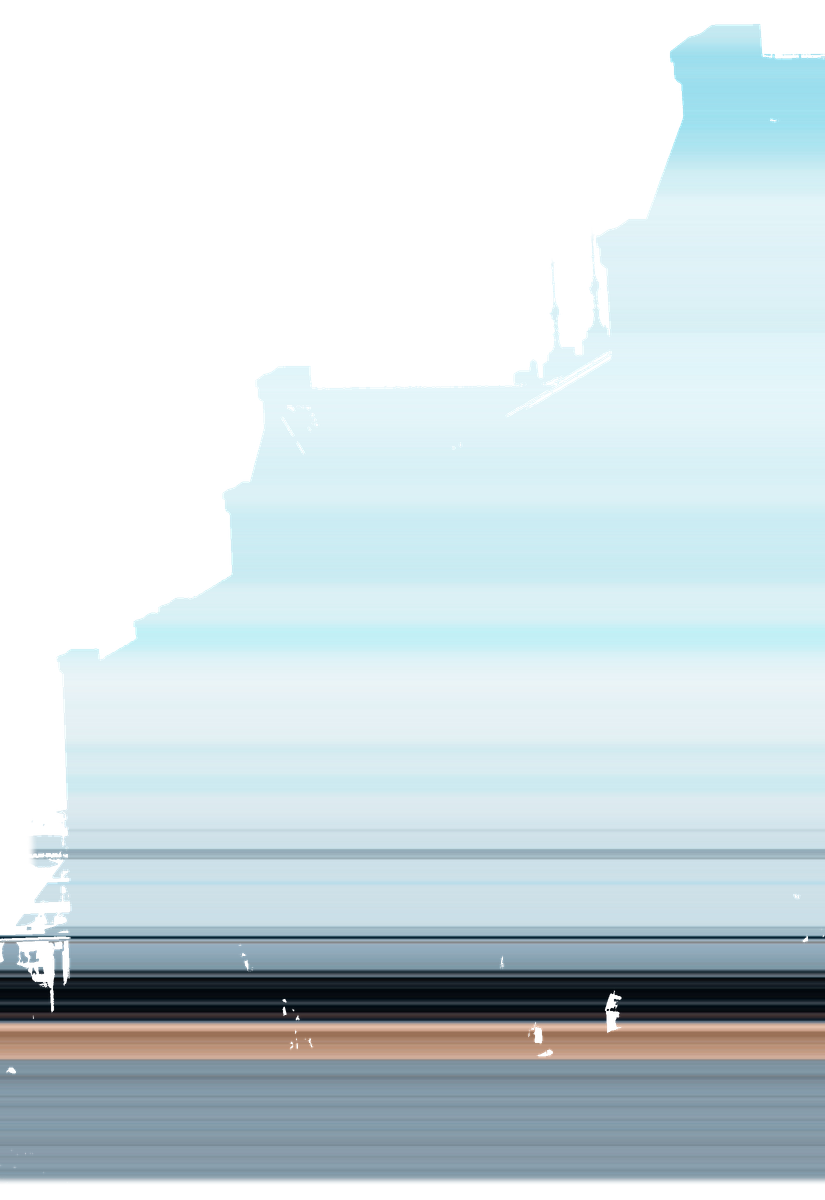
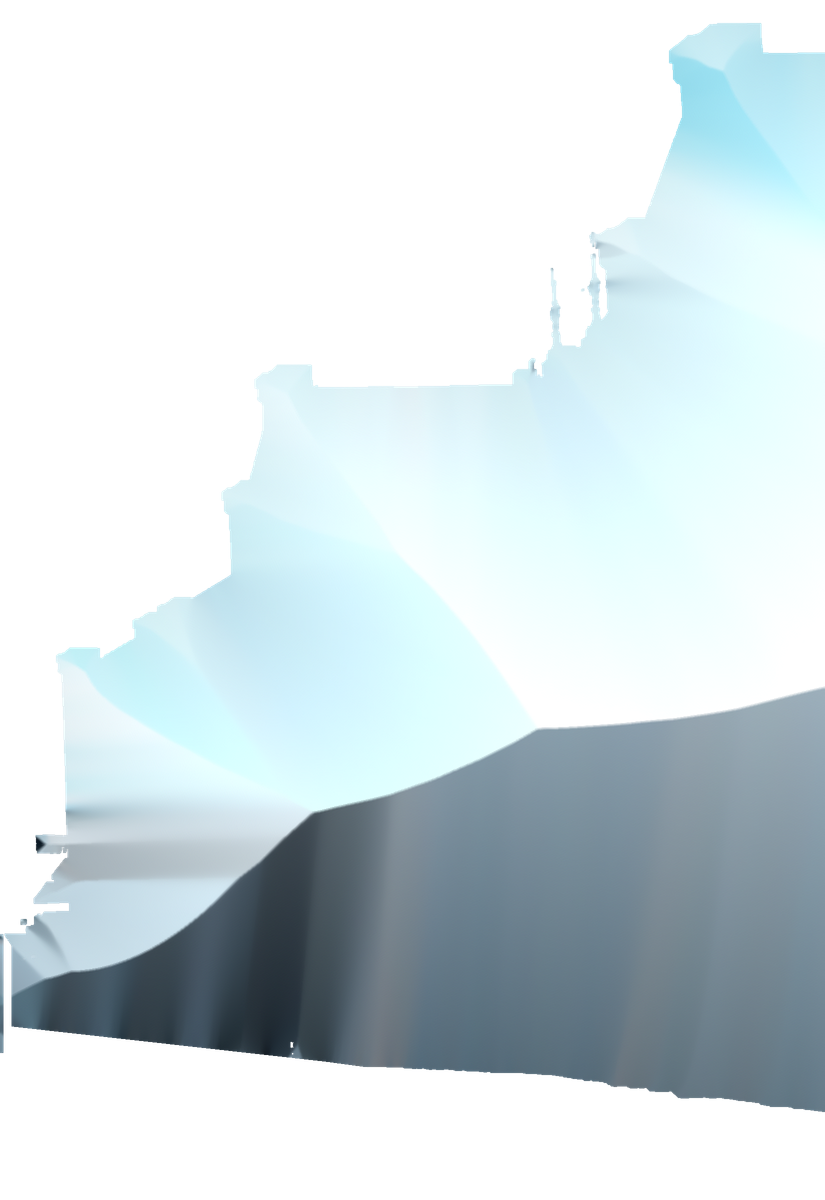
fix: refine photo masks and group scene into four layers

diff --git a/scripts/prepare-photo-background.py b/scripts/prepare-photo-background.py
@@ -1,0 +1,37 @@
+"""Rebuild the hidden fill from approved masks; no generative model or RGB edits to subjects.
+Optional authoring dependency: opencv-python-headless, numpy, Pillow.
+Run from the repository root, then run scripts/create-photo-layers.mjs.
+"""
+import json
+from pathlib import Path
+import cv2
+import numpy as np
+from PIL import Image
+
+root = Path(__file__).resolve().parents[1]
+layout = json.loads((root / 'assets/photo-layer-layout.json').read_text())
+original = np.array(Image.open(root / 'public/images/FP002119.JPG').convert('RGB'))
+missing = np.zeros(original.shape[:2], np.uint8)
+crowd_missing = np.zeros_like(missing)
+for part in layout['parts']:
+    alpha = np.array(Image.open(root / f"assets/photo-{part['name']}-mask.png").convert('L'))
+    if alpha.shape != (part['height'], part['width']):
+        raise ValueError('Unexpected mask size')
+    region = missing[part['y']:part['y'] + part['height'], part['x']:part['x'] + part['width']]
+    np.maximum(region, alpha, out=region)
+    if part['name'] == 'crowds':
+        crowd_missing[part['y']:part['y'] + part['height'], part['x']:part['x'] + part['width']] = alpha
+# Only this concealed fill is generated at half resolution. Foreground RGB comes
+# directly from the original; the normal static/zoom photo remains untouched.
+small = cv2.resize(original, (3000, 1688), interpolation=cv2.INTER_AREA)
+mask = cv2.resize(missing, (3000, 1688), interpolation=cv2.INTER_AREA)
+mask = cv2.dilate((mask > 4).astype(np.uint8) * 255, np.ones((5, 5), np.uint8))
+fill = cv2.inpaint(small, mask, 3, cv2.INPAINT_TELEA)
+Image.fromarray(fill).save(root / 'assets/photo-background-fill.webp', lossless=True, method=6)
+# Architecture keeps its surface behind people; use a separate plate that
+# removes pedestrians without removing the walls behind them.
+crowd_mask = cv2.resize(crowd_missing, (3000, 1688), interpolation=cv2.INTER_AREA)
+crowd_mask = cv2.dilate((crowd_mask > 4).astype(np.uint8) * 255, np.ones((5, 5), np.uint8))
+walls = cv2.inpaint(small, crowd_mask, 3, cv2.INPAINT_TELEA)
+Image.fromarray(walls).save(root / 'assets/photo-buildings-fill.webp', lossless=True, method=6)
+print('Prepared non-generative hidden fill from adjacent photo pixels.', flush=True)

diff --git a/README.md b/README.md
@@ -66,32 +66,39 @@ npm run build
 
 ## マウスに追従するレイヤー
 
-マウス操作できる端末では、空と遠景・左の倉庫・右の倉庫・地面・人物の5層が、控えめにマウスへ追従します。
-人物と地面は同じ移動量にして足元を保ち、縦方向は全層を一緒に動かして境界のずれを抑えます。
-揺り戻しのない補間を使い、画像読み込み直後には拡大せず、追従中に必要な分だけ端の余白を広げます。
-人物は `u2net_human_seg` のマスクとアルファマッティングで切り抜き、髪・脚の間・ケーブルを調整しました。
-人物の RGB は原本から取得し、顔や服を生成し直していません。Qwen は使用していません。
-隠れた人物の位置は同じ高さの左右の画素で補い、倉庫の背景は同じ高さの近隣画素で補います。
-地面には人物を除いた写真を使用し、二重に人物が現れるのを防いでいます。移動幅は小さく抑えています。
-広い移動や大きな視点変更に使う背景復元ではありません。
+マウス操作できる端末では、背景・建物・周囲の人々・本人の4層が、控えめにマウスへ追従します。
+左右の倉庫は同じ層として動かし、地面は背景にまとめています。
+縦方向は全層を一緒に動かして境界のずれを抑え、揺り戻しのない補間を使います。
+画像読み込み直後には拡大せず、追従中に必要な分だけ端の余白を広げます。
+
+本人の切り抜きは BiRefNet、周囲の人々は検出とセグメンテーション、建物は原本の色を使った GrabCut を基に調整しました。
+髪・脚の間・ケーブル・屋根の境界を見直し、ケーブルには原本に沿った手動マスクも使用しています。
+本人の不透明な画素は原本の RGB を保ち、半透明の輪郭では背景色のにじみを除去しています。
+顔や服を生成し直していません。Qwen は使用していません。
+隠れる背景は OpenCV の非生成型インペイントで近隣画素から補います。
+建物には人だけを除いた別の補完画像を使い、壁の中に人物の穴を開けずに人々を独立させています。
+補完はごく小さな移動で見える部分向けです。
 
 レイヤーは最初のマウス入力でのみ読み込み、すべての画像がデコードできた時に表示します。
-追加画像は WebP → PNG のフォールバックです。人物と補完パッチの WebP はロスレス、倉庫と地面は品質92で圧縮しています。
+追加画像は WebP → PNG のフォールバックです。本人と補完パッチの WebP はロスレス、建物と人々は品質92で圧縮しています。
 各画像は必要な領域だけを保存し、本体写真の `object-fit: cover` と同じ座標に配置します。
-人物は原寸、倉庫と地面は拡大前の表示用に半分の解像度で出力します。ケーブルの拡大表示には本体写真を使います。
+本人は原寸、建物と人々は拡大前の表示用に半分の解像度で出力します。ケーブルの拡大表示には本体写真を使います。
 タッチ端末・動きを減らす設定・読み込み失敗時は本体写真を表示します。
 ズーム中は移動量を減らし、2倍に達する前に動きを収束させ、2倍以降は本体写真に戻します。
 停止後・画面外・タブ非表示ではアニメーションを停止します。
 
-調整済み人物マスクは `assets/photo-person-mask.png`、倉庫の範囲は `assets/photo-architecture-masks.json` です。
+調整済みマスクと隠れる部分の補完画像は `assets/photo-*-mask.png`、`assets/photo-*-fill.webp` です。
 切り出し座標と奥行きは `assets/photo-layer-layout.json` を画像作成スクリプトとページで共有します。
-原本とマスクから追加画像を再作成できます。
+原本と保存済みマスク・補完画像から追加画像を再作成できます。
 Astro の依存関係に含まれる Sharp を使用し、通常のビルドや実行時に画像処理モデルは不要です。
 
 ```sh
 npm ci
 node scripts/create-photo-layers.mjs assets/photo-person-mask.png
 ```
+
+マスクを編集して補完画像も更新する場合だけ、任意の Python 環境に `opencv-python-headless`、`numpy`、`Pillow` を入れ、先に `python scripts/prepare-photo-background.py` を実行します。
+マスク作成時のモデルと補正方法は [assets/photo-mask-notes.md](assets/photo-mask-notes.md) に記録しています。
 
 ## 配信とアニメーションの最適化
 

diff --git a/assets/photo-mask-notes.md b/assets/photo-mask-notes.md
@@ -1,0 +1,15 @@
+# Photo mask provenance
+
+The original `public/images/FP002119.JPG` is unchanged. Masks are authored at source coordinates; their crop sizes are in `photo-layer-layout.json`. All visible subjects use the original RGB. No generative image model was used.
+
+- Person: BiRefNet-general-lite via rembg, then source-guided corrections to the wire, the gap between the legs, and the shoe contact shadow. The wire mask was manually traced to remove bridge pixels caught by automatic segmentation. Hair uses the model's soft alpha. Fully opaque person pixels retain source RGB exactly; edge pixels are decontaminated against the concealed background plate.
+- Buildings: the rough polygons in `photo-architecture-masks.json` seed full-resolution OpenCV GrabCut. Refined masks follow roof and antenna contours and stop at the shop frontage. Both warehouses share one movement plane.
+- Crowds: overlapping high-resolution tiles, YOLOv8n-seg person / bicycle / carried-object detections, followed by RGB GrabCut boundary refinement. The main person is excluded. Very distant figures and reflections can remain in the background; this is a manually reviewed scene mask, not a claim of complete instance segmentation.
+- Hidden pixels: `scripts/prepare-photo-background.py` uses OpenCV Telea inpainting at half resolution. A separate plate removes only crowds to retain wall surfaces behind them. These plates support the small displacement, not a large viewpoint change.
+
+The shipped PNG masks and lossless WebP plates are the authoring inputs; no model, Python dependency, or inference service is needed for normal builds or visitors. Rebuild the derived public assets with `scripts/create-photo-layers.mjs`. Only regenerate the plates after editing a mask.
+
+Model sources used during offline authoring:
+
+- [BiRefNet-general-lite via rembg](https://github.com/danielgatis/rembg) (download verified against rembg's MD5 `4fab47adc4ff364be1713e97b7e66334`). See the upstream [BiRefNet project](https://github.com/ZhengPeng7/BiRefNet) for its MIT license.
[1 lines of base64/hex data omitted]
